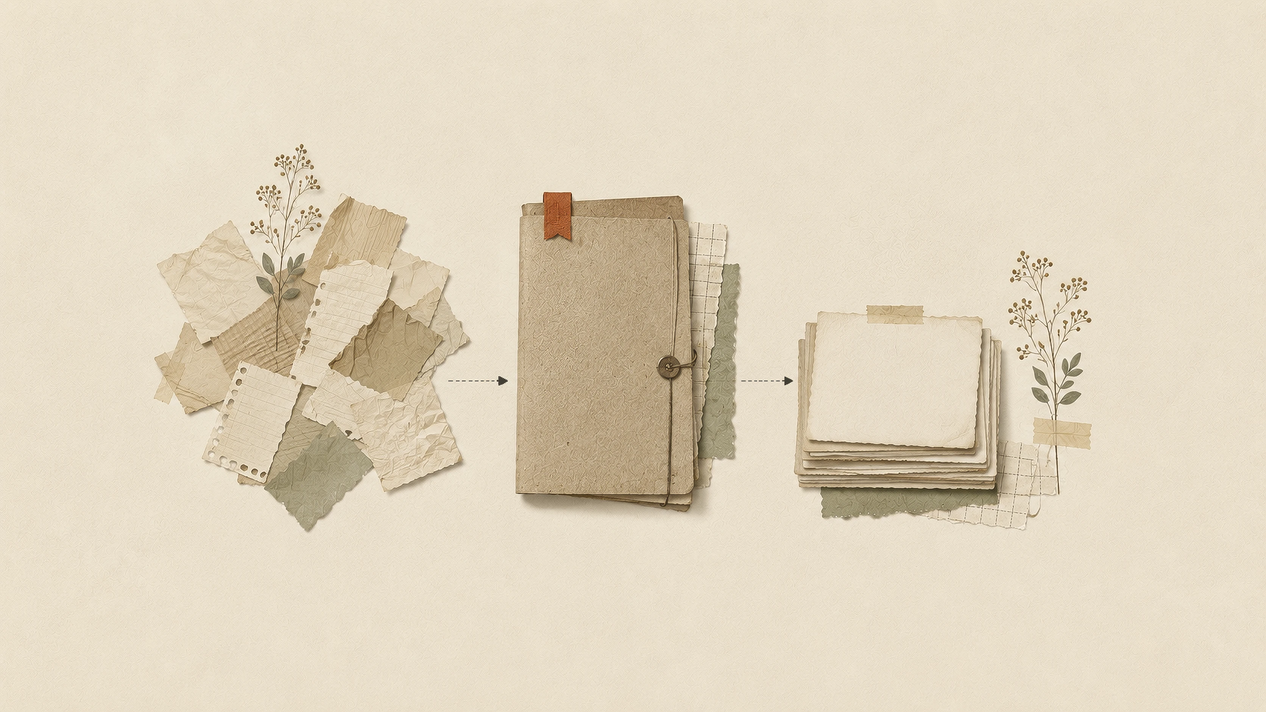
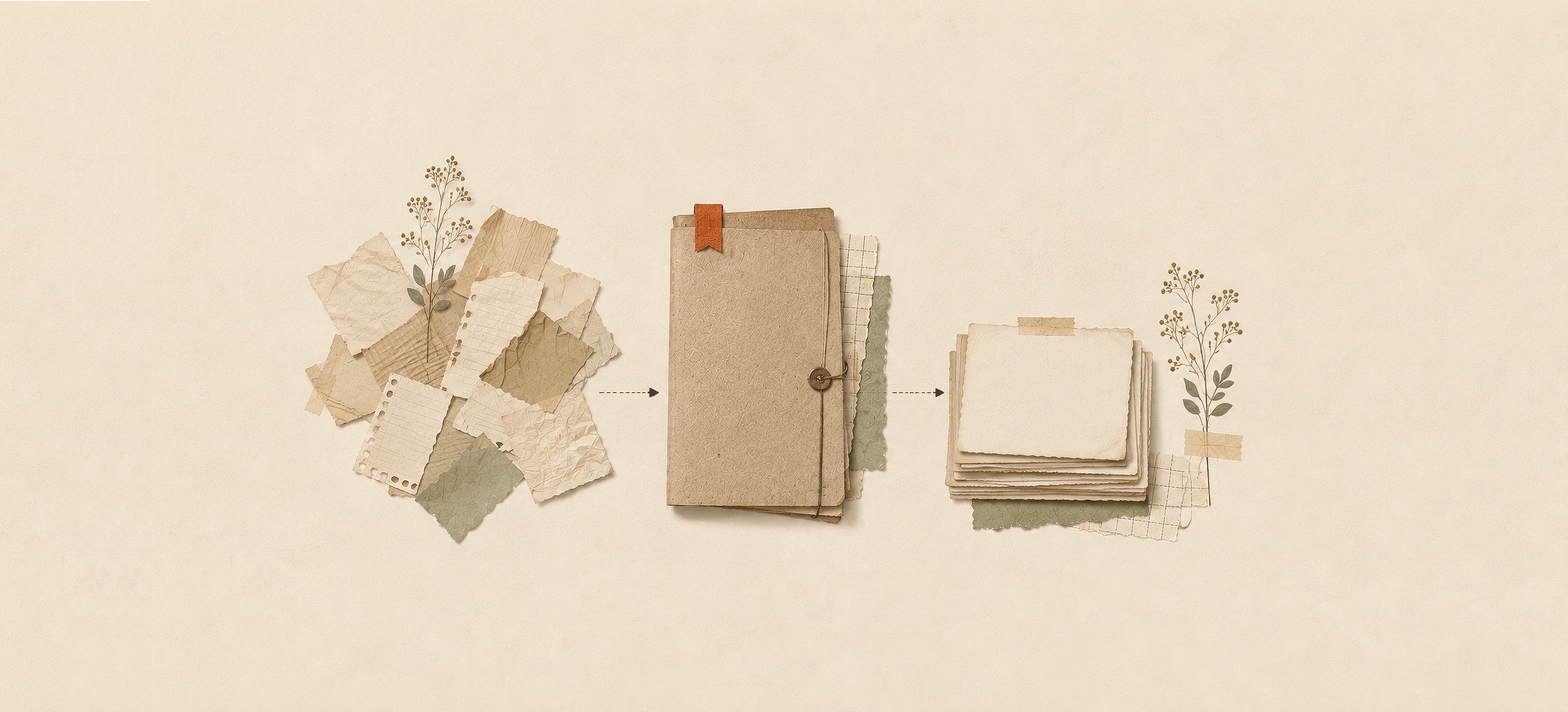
feat(hero): swap in author-cropped 2.2:1 source images, center animation end trigger (v3.4)
The 16:9 crop-from-source approach (v3.3) was reverted because the
underlying compositions were already framed too large for a 2.2:1 crop to
save cleanly. The author instead re-exported all 5 covers in Photoshop at
4140x1882 (2.2:1, verified via sips before conversion) with the canvas
extended and subjects recentered by hand -- content and composition
intentionally changed at the source, not cropped after the fact.

- Replaced all 5 hero WebPs (cwebp -q90, same filenames) with the new
  4140x1882 source images. Hero.tsx reads intrinsic width/height via sharp
  at render time, so no hardcoded dimensions needed updating.
- .case-hero's aspect-ratio changed from 16/9 to 2.2/1 to match.
- Animation end trigger moved from center 40% to center 50% (vertically
  centered), so the fully-grown hero lands fully on-screen with air above
  and below instead of pushed toward the top.

Scroll span, easing, smoothing, start/end width, and centering are
unchanged from v3.2.

Claude-Session: https://claude.ai/code/session_01YaoeMjbquMBVoMujHM9p8m

Changed region(s): [[0.1244, 0.2157, 0.8708, 0.7705]]

diff --git a/app/globals.css b/app/globals.css
@@ -439,7 +439,8 @@
    into that tracking — exactly the trap the old version was built around
    avoiding). Progress now comes from a plain rAF loop keyed off
    window.scrollY, in HeroClient.tsx: trigger positions (scrollY where the
-   hero's center sits at 70%/40% of viewport height) are computed once at
+   hero's center reaches 50% of viewport height, with the start trigger
+   derived backward from a fixed scroll-span fraction) are computed once at
    mount and on resize — never read back from the element's own current,
    possibly mid-animation rect, which would be the same self-tracking
    trap in JS form. An exponential-smoothing term (cur += (eased-cur) *
@@ -450,10 +451,16 @@
   width: min(var(--hero-width-start), calc(100vw - 3rem));
   max-width: none; /* override Tailwind preflight's img{max-width:100%} — otherwise it clamps
                        to .prose-works's 672px content box regardless of the width above */
-  aspect-ratio: 16 / 9;
+  /* Source images are now authored at 4140×1882 (2.2:1) specifically for
+     this box — a 16:9 crop, at full viewport width, renders taller than
+     common desktop viewports (e.g. 1905px wide → 1071px tall vs. a
+     953px-tall viewport), clipping the top once the grow animation
+     finishes. 2.2/1 (≈866px tall at 1905px wide) fits inside that viewport
+     with room to spare. */
+  aspect-ratio: 2.2 / 1;
   height: auto;
-  object-fit: cover; /* the source is ~16:9 but not bit-exact; this guarantees
-                         no stretching even for the tiny leftover mismatch */
+  object-fit: cover; /* source ratio is 4140/1882 ≈ 2.1998, not bit-exact 2.2;
+                         this guarantees no stretching from that rounding */
   margin-top: var(--hero-gap-top);
   margin-bottom: var(--figure-gap-block);
   /* NOT margin-inline:auto — confirmed in an earlier round that once a

diff --git a/app/components/mdx/HeroClient.tsx b/app/components/mdx/HeroClient.tsx
@@ -13,7 +13,9 @@ interface HeroClientProps {
 const BASE_RADIUS = 12; // must match .case-hero's border-radius in globals.css
 const HERO_WIDTH_START = 1280; // must match --hero-width-start in globals.css
 const SMOOTHING = 0.08; // ≈ GSAP ScrollTrigger scrub: 0.8
-const END_VIEWPORT_FRACTION = 0.4; // hero center at 40% of viewport height
+const END_VIEWPORT_FRACTION = 0.5; // hero center at 50% (vertically centered) of viewport height —
+// with the new 2.2/1 source images this puts the fully-grown hero fully
+// on-screen with air above and below, instead of pushed toward the top
 const SPAN_VH_FRACTION = 0.3; // scroll span = 30% of viewport height, anchored off the end trigger
 const CONVERGED_THRESHOLD = 0.001;
 
